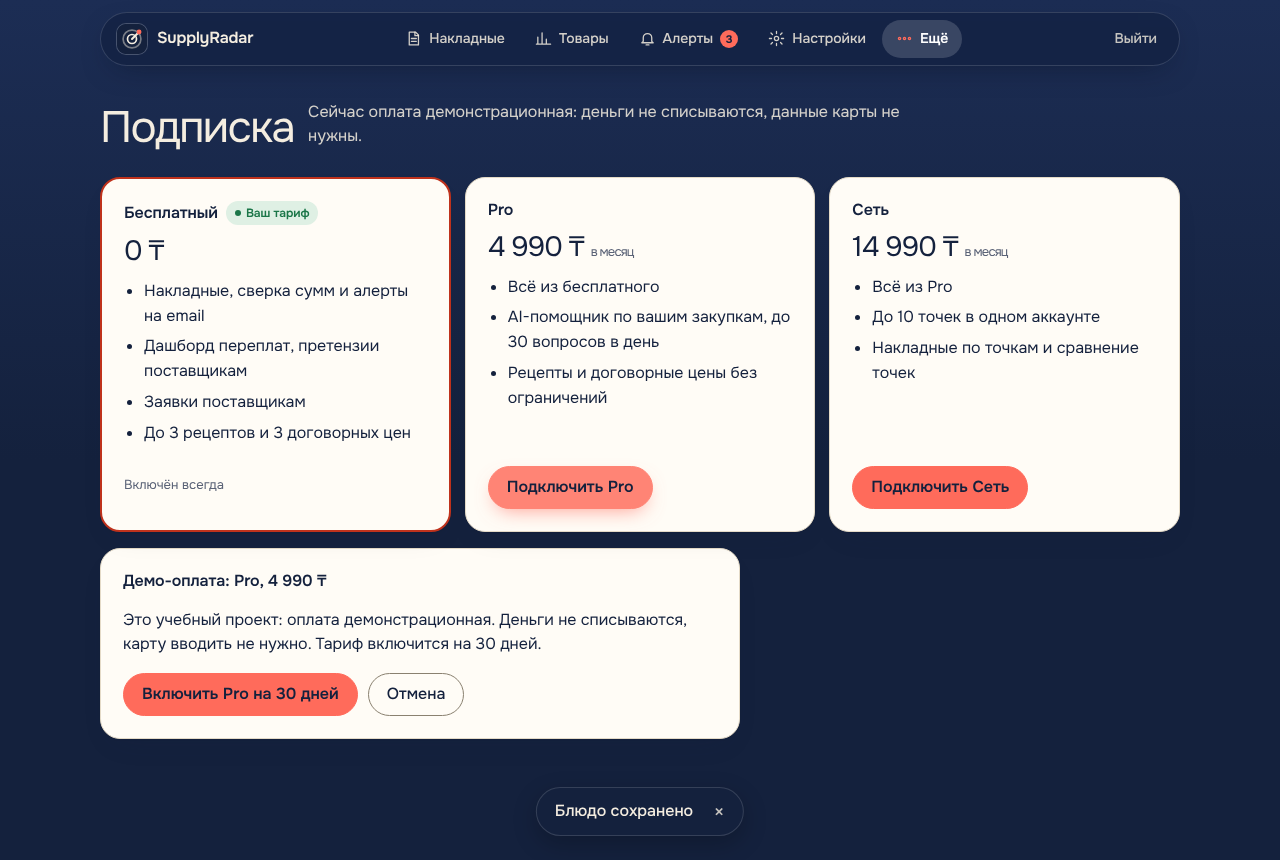
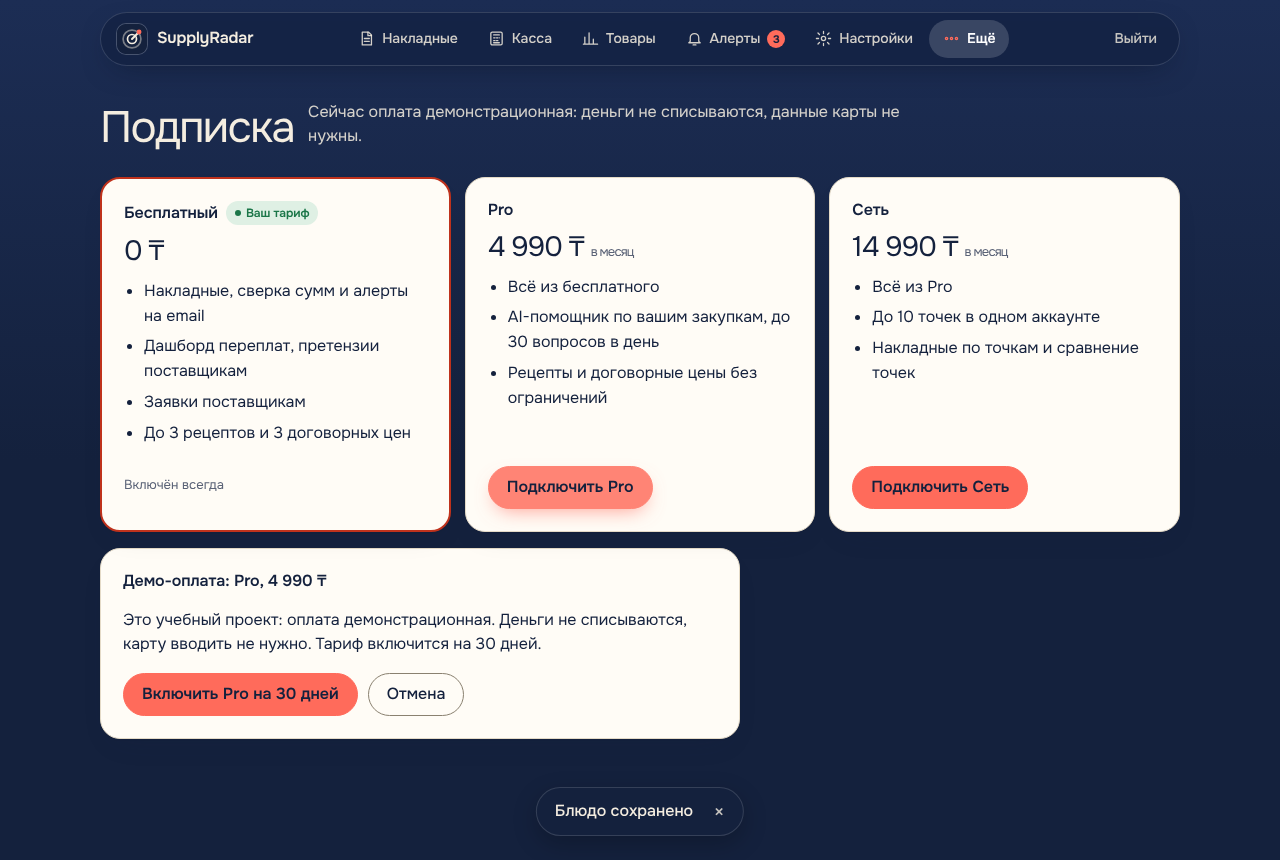
Put the cash desk in the main navigation
Claude-Session: https://claude.ai/code/session_01KwGjVBDGxEL3AD6Kkxbr3G

Changed region(s): [[0.2812, 0.0, 0.8125, 0.0907]]

diff --git a/src/frontend/app.js b/src/frontend/app.js
@@ -345,7 +345,7 @@
   ];
   // Pages that live under the «Ещё» tab.
   const MORE_SECTIONS = ["more", "suppliers", "orders", "subscription", "assistant", "savings", "claims", "contracts", "locations", "recipes", "telegram", "admin",
-    "pos", "receipts", "expenses", "stock", "reports", "taxes", "access", "shared"];
+    "expenses", "stock", "reports", "taxes", "access", "shared"];
   // Pages that only make sense for a business: a supplier account is sent to its catalog instead.
   const BUSINESS_ONLY = ["invoices", "products", "alerts", "savings", "claims", "contracts", "locations", "recipes", "assistant", "more", "admin",
     "pos", "receipts", "expenses", "stock", "reports", "taxes"];
@@ -395,7 +395,7 @@
     document.body.className = needsAuth ? "app" : "landing";
     const section = hash.split("/")[1];
     const paintNav = () => {
-      const tab = isSupplier() || !MORE_SECTIONS.includes(section) ? section : "more";
+      const tab = section === "receipts" ? "pos" : isSupplier() || !MORE_SECTIONS.includes(section) ? section : "more";
       document.getElementById("nav").hidden = section === "welcome";
       document.querySelectorAll("[data-for]").forEach((a) => {
         a.hidden = !!profile && a.dataset.for !== (isSupplier() ? "supplier" : "business");
@@ -2373,7 +2373,7 @@
     if (!alive()) return;
     const refunded = r.status === "refunded";
     app.innerHTML = `
-      <a class="back no-print" href="#/pos">← Касса</a>
+      <a class="back no-print" href="#/pos">← К кассе</a>
       <article class="card receipt" aria-labelledby="receipt-title">
         <header class="receipt-head">
           <b>${esc(r.seller.name || "")}</b>
@@ -2757,7 +2757,6 @@
         <p class="sub">Касса, отчёты и налоги, склад, поставщики, переплаты и помощник.</p></div>
       <h2 class="tiles-title">Учёт и отчётность</h2>
       <ul class="tiles">
-        ${tile("#/pos", "bag", "Касса", "Продажа и чек с номером, PDF или печать")}
         ${tile("#/reports", "chart", "Отчёты и налоги", "Выручка, прибыль, черновик налога, пакет для бухгалтера")}
         ${tile("#/expenses", "doc", "Расходы", "Аренда, зарплата, коммунальные, повтор каждый месяц")}
         ${tile("#/stock", "box", "Склад", "Остатки и готовый заказ, когда товара мало")}

diff --git a/src/frontend/index.html b/src/frontend/index.html
@@ -28,6 +28,10 @@
         <svg viewBox="0 0 24 24" aria-hidden="true"><path d="M6 3h9l4 4v14H6z"/><path d="M14 3v5h5M9 12h7M9 16h7"/></svg>
         <span>Накладные</span>
       </a>
+      <a href="#/pos" data-nav="pos" data-for="business">
+        <svg viewBox="0 0 24 24" aria-hidden="true"><rect x="4" y="3" width="16" height="18" rx="2"/><path d="M8 7h8M8 11h2M12 11h2M16 11h0M8 15h2M12 15h2M8 18h8"/></svg>
+        <span>Касса</span>
+      </a>
       <a href="#/products" data-nav="products" data-for="business">
         <svg viewBox="0 0 24 24" aria-hidden="true"><path d="M4 20V10M10 20V4M16 20v-7M22 20H2"/></svg>
         <span>Товары</span>

diff --git a/src/frontend/styles.css b/src/frontend/styles.css
@@ -806,3 +806,4 @@ fieldset.pay .check { margin: 6px 0 0; }
 .facts .v { overflow-wrap: anywhere; }
 @media (max-width: 400px) { .facts .card { padding: 14px 14px; } .facts .v { font-size: 1.375rem; } }
 .receipt ~ .actionbar.no-print { justify-content: center; }
+@media (max-width: 380px) { .nav a { font-size: 0.6875rem; padding: 6px 0; } .nav svg { width: 20px; height: 20px; } }
